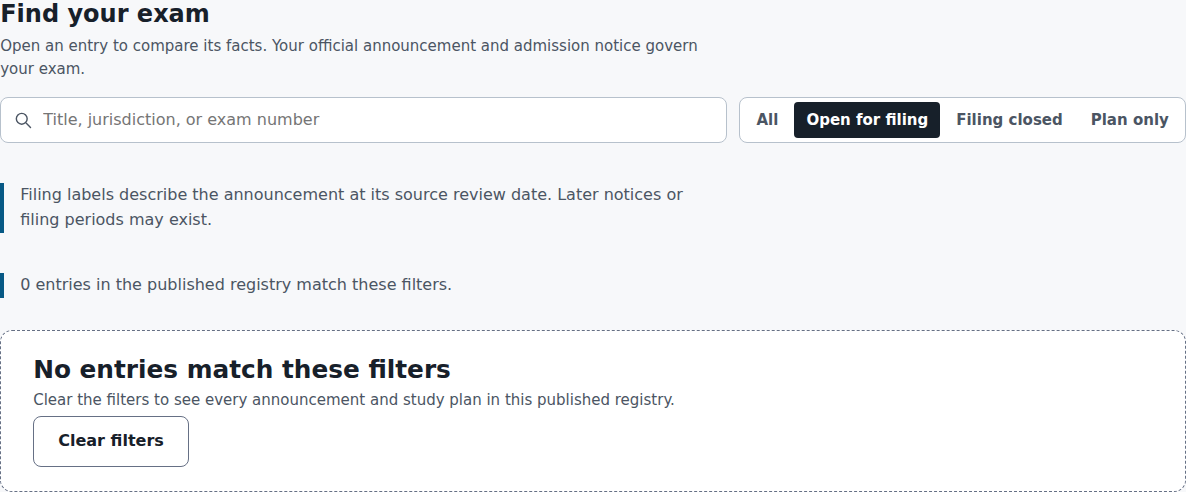
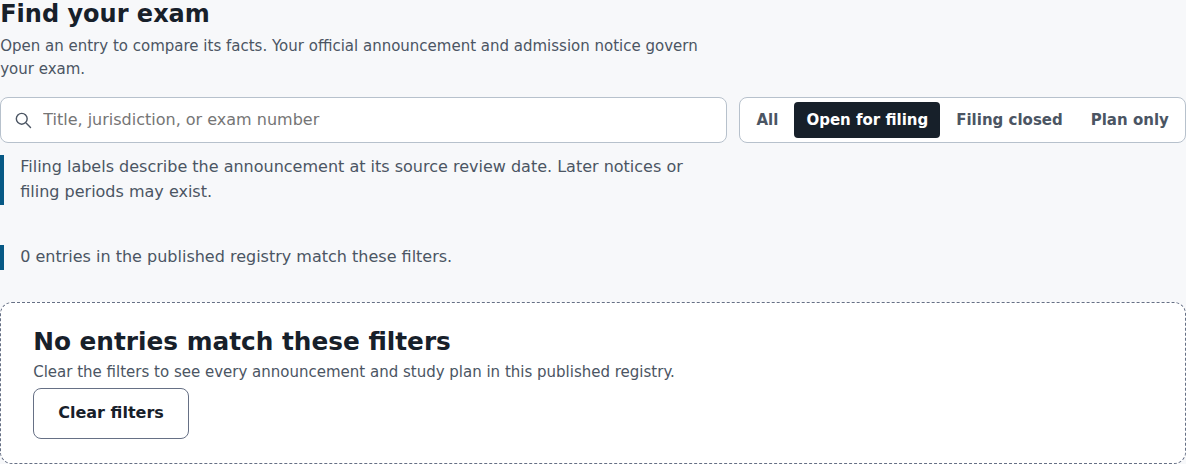
Disclose compact exam filters with keyboard and resize recovery

diff --git a/apps/site/scripts/generate-pages.tsx b/apps/site/scripts/generate-pages.tsx
@@ -1395,9 +1395,9 @@ const buildPages = ({
     <div class="home-content">
       ${renderAnnouncementMilestones(announcementFacts, sourceLineById, sourceById, "exams-cycle")}
       <section class="home-section" id="exams-board" data-exam-browser aria-labelledby="exam-board-heading"><div class="section-header"><h2 id="exam-board-heading">Find your exam</h2><p>Open an entry to compare its facts. Your official announcement and admission notice govern your exam.</p></div>
-        <div class="exam-search-controls"><div class="search-field" data-exam-search-field hidden><label class="sr-only" for="exam-search">Search announcements and study plans</label>${navIcon("search")}<input id="exam-search" type="search" data-exam-search placeholder="Title, jurisdiction, or exam number" autocomplete="off"></div>
+        <details class="exam-filter-disclosure" data-exam-filter-disclosure open hidden><summary>Search and filter</summary><div class="exam-search-controls"><div class="search-field" data-exam-search-field hidden><label class="sr-only" for="exam-search">Search announcements and study plans</label>${navIcon("search")}<input id="exam-search" type="search" data-exam-search placeholder="Title, jurisdiction, or exam number" autocomplete="off"></div>
         <div class="filter-group" role="group" aria-label="Filing status at source review" data-exam-status-filters hidden>${[["all", "All"], ["open", "Open for filing"], ["closed", "Filing closed"], ["plan", "Plan only"]].map(([value, label]) => `<button type="button" data-exam-status-filter="${value}" aria-pressed="${value === "all"}">${label}</button>`).join("")}</div></div>
-        <p class="source-note">Filing labels describe the announcement at its source review date. Later notices or filing periods may exist.</p>
+        <p class="source-note">Filing labels describe the announcement at its source review date. Later notices or filing periods may exist.</p></details>
         <p class="source-note" data-exam-count role="status">${examRecords.length} entries in the published registry.</p>
         <div class="record-board"><ul class="record-list" aria-label="Available profiles">${examRecords.map((record) => `<li data-exam-row data-exam-status="${record.identity === null ? "plan" : record.filingReview?.state ?? "unknown"}" data-exam-search-text="${escapeHtml(`${record.title} ${record.kind} ${record.profile.jurisdiction} ${record.identity?.examNumber ?? ""}`.toLowerCase())}"><a class="record-item" data-exam-choice="${record.id}" href="#${record.id}"><strong>${escapeHtml(record.title)}</strong><span class="record-kind">${escapeHtml(record.kind)}</span><span class="record-when">${escapeHtml(record.profile.jurisdiction)}</span><span class="status-chip ${record.filingReview?.state === "closed" ? "status-chip-warning" : "status-chip-neutral"}">${record.identity === null ? "Plan only" : record.filingReview?.state === "closed" ? "Filing closed" : record.filingReview?.state === "open" ? "Open for filing" : "Status unverified"}</span>${record.filingReview === undefined ? "" : `<span class="record-when">Reviewed ${escapeHtml(publicDate(record.filingReview.reviewedOn))}</span>`}</a><div class="exam-card-coverage"><details class="exam-card-subjects"><summary>${record.identity === null ? "Subjects in the statewide guide" : "On this test: three subject areas"}</summary><ol>${subjectAreas.map(area => `<li>${escapeHtml(area)}</li>`).join("")}</ol><p>${record.identity === null ? "Your own announcement controls which subjects apply." : escapeHtml(record.profile.testPlanCompatibility.detail)}</p></details><a class="button button-primary" href="/practice/#covers">See what practice covers</a></div></li>`).join("")}</ul>
           <div class="record-detail-stack"><section class="record-detail" data-exam-prompt hidden><h3>Start with the title on your announcement</h3><p>Choose an entry to read its facts and source support. Reading an entry does not change your study settings.</p></section>${examRecords.map((record) => `<article class="record-detail" id="${record.id}" data-exam-panel tabindex="-1" aria-labelledby="${record.id}-heading"><div class="record-detail-header"><div><p class="record-kind">${escapeHtml(record.kind)}</p><h3 id="${record.id}-heading">${escapeHtml(record.title)}</h3><p>${escapeHtml(record.profile.audience)}</p></div><div class="record-detail-actions"><a class="button button-primary" href="/practice/#covers">See what practice covers</a><a class="button button-secondary" href="${record.profile.canonicalPath}">Read the full profile</a></div></div>

diff --git a/apps/site/browser-tests/design-handoff.pw.ts b/apps/site/browser-tests/design-handoff.pw.ts
@@ -128,6 +128,7 @@ test("atlas family controls filter the released tools and restore the selected f
 test("exam search, record selection, and detail tabs use the published records", async ({ page }) => {
   await page.setViewportSize({ height: 720, width: 320 })
   await page.goto("/exams/")
+  await page.getByText("Search and filter", { exact: true }).click()
   const search = page.getByRole("searchbox", { name: "Search announcements and study plans" })
   await expect(search).toBeVisible()
   const rows = page.locator("[data-exam-row]")
@@ -270,6 +271,7 @@ test("exam controls align on desktop and compact records omit the empty selectio
   for (const width of [1248, 384]) {
     await page.setViewportSize({ width, height: 900 })
     await page.goto("/exams/")
+    if (width === 384) await page.getByText("Search and filter", { exact: true }).click()
     const search = page.getByRole("searchbox")
     const filters = page.getByRole("group", { name: "Filing status at source review" })
     await expect(search).toBeVisible()
@@ -357,3 +359,31 @@ for (const javaScriptEnabled of [true, false]) {
     } finally { await context.close() }
   })
 }
+
+test("compact exam filters disclose on demand and recover visible controls across resize", async ({ page }) => {
+  await page.setViewportSize({ width: 384, height: 900 })
+  await page.goto("/exams/")
+  const disclosure = page.locator("[data-exam-filter-disclosure]")
+  const summary = disclosure.locator("summary")
+  const search = page.getByRole("searchbox")
+  await expect(disclosure).toBeVisible()
+  await expect(search).toBeHidden()
+  await summary.focus()
+  await page.keyboard.press("Enter")
+  await expect(search).toBeVisible()
+  await search.fill("no such announcement")
+  await summary.click()
+  await expect(search).toBeHidden()
+  await page.getByRole("button", { name: "Clear filters", exact: true }).click()
+  await expect(search).toBeFocused()
+  await expect(page.locator("[data-exam-row]:visible")).toHaveCount(3)
+  await summary.click()
+  await page.setViewportSize({ width: 1248, height: 900 })
+  await expect(search).toBeVisible()
+  await expect(summary).toBeHidden()
+  await page.setViewportSize({ width: 384, height: 900 })
+  await expect(search).toBeVisible()
+  await page.goto("/exams/?filing=plan")
+  await expect(search).toBeVisible()
+  await expect(page.locator("[data-exam-row]:visible")).toHaveCount(1)
+})

diff --git a/apps/site/src/static-browser.ts b/apps/site/src/static-browser.ts
@@ -96,6 +96,7 @@ const enhanceExams = (root: HTMLElement): void => {
   const prompt = root.querySelector<HTMLElement>("[data-exam-prompt]")
   const search = root.querySelector<HTMLInputElement>("[data-exam-search]")
   const searchField = root.querySelector<HTMLElement>("[data-exam-search-field]")
+  const filterDisclosure = root.querySelector<HTMLDetailsElement>("[data-exam-filter-disclosure]")
   const count = root.querySelector<HTMLElement>("[data-exam-count]")
   const empty = root.querySelector<HTMLElement>("[data-exam-empty]")
   if (prompt === null || search === null || searchField === null || count === null || empty === null) return
@@ -178,6 +179,7 @@ const enhanceExams = (root: HTMLElement): void => {
     status = "all"
     replaceQuery("filing", null)
     filter()
+    if (filterDisclosure !== null) filterDisclosure.open = true
     search.focus()
   })
   const url = new URL(window.location.href)
@@ -187,6 +189,17 @@ const enhanceExams = (root: HTMLElement): void => {
   filter()
   if (statusGroup !== null) statusGroup.hidden = false
   searchField.hidden = false
+  if (filterDisclosure !== null) {
+    const desktop = window.matchMedia("(min-width: 48rem)")
+    filterDisclosure.open = desktop.matches || status !== "all"
+    filterDisclosure.hidden = false
+    desktop.addEventListener("change", () => {
+      if (!desktop.matches) return
+      const summaryFocused = document.activeElement === filterDisclosure.querySelector("summary")
+      filterDisclosure.open = true
+      if (summaryFocused) search.focus()
+    })
+  }
 }
 
 const atlas = document.querySelector<HTMLElement>("[data-atlas-browser]")

diff --git a/apps/site/src/design-system.css b/apps/site/src/design-system.css
@@ -1139,3 +1139,14 @@
     .exam-card-coverage .exam-card-subjects > p { padding: 0 0.875rem 0.875rem; border: 0; font-size: 0.75rem; }
   }
 }
+
+@layer overrides {
+  .exam-filter-disclosure > summary { display: none; }
+  .exam-filter-disclosure > .source-note { margin-block: 0.75rem 0; }
+  @media (max-width: 47.99rem) {
+    .exam-filter-disclosure { border: var(--border-thin) solid var(--color-border); border-radius: var(--radius-md); background: var(--color-surface); }
+    .exam-filter-disclosure > summary { display: list-item; padding: 0.625rem 0.875rem; min-block-size: 2.75rem; font-size: 0.875rem; cursor: pointer; }
+    .exam-filter-disclosure > .exam-search-controls { margin: 0 0.75rem; }
+    .exam-filter-disclosure > .source-note { margin: 0.75rem; padding: 0; border: 0; font-size: 0.75rem; }
+  }
+}

diff --git a/design-review/2026-09-07/IMPLEMENTATION-STATUS.md b/design-review/2026-09-07/IMPLEMENTATION-STATUS.md
@@ -14,7 +14,7 @@ The active task is the complete handoff in `/mnt/models/dev/nycustodianexam/IMPL
 | Hazard player | HAZARD-PLAYER-REVIEW.md: responsive workspace, header/save panel, nine real-state captures and nine regression tests | Visual/keyboard layout, integrated retained-image overlay, correction/safe groups and compact recovery captured; final cross-browser and matching-width visual audit remain |
 | Simulation player/results | SIMULATION-NAVIGATOR-REVIEW.md and SIMULATION-FLOW-REVIEW.md: navigator, player/timer and question-result captures at 1008/384; restore/focus checks; 24 three-browser regressions pass | Visual/keyboard hazard player/results now captured at both widths; no-concerns target corrected and six three-browser hazard regressions pass; final integrated audit and separate Static Assets check remain |
 | Print configuration | Ten products and effective controls; reviewed document scope | PRINT-OUTPUT-REVIEW.md: actual Letter/A4 question PDFs and searchable-text fix; preview rows/actions and warning/error panels reconciled; twelve ready/recovery captures and 27 three-browser print checks pass; fresh Letter/A4 PDFs retain searchable text; all 45 extended large-print/tool PDF pages audited and grid-fragmentation overlap fixed; current PDFs and per-page verification retained; 42 hazard worksheet/answer/text PDF pages audited with pagination fixes; large-print heading/URL sizing fixed with fresh PDF evidence; source-inclusive hazard estimates now finalize from assembled content; final other-product PDF refresh remains |
-| Exams / Settings / Offline / report | UTILITY-PAGES-REVIEW.md: first-visit desktop/compact captures, Settings action layout/Offline grouping and recovery checks | Delete preview cancellation/captures verified; returning saved-work counts and Offline installed summaries now use actual storage with empty/unavailable captures; export contents scope is disclosed; Exams header/compact cards and announcement-first ordering reconciled with six three-browser checks and refreshed overview/record captures; cycle responsive order/source disclosure reconciled with 17 generation tests and nine three-browser checks; source-bound filing classifications and combined URL-restored filters implemented with 22 unit and 12 three-browser checks; date milestones consolidated with bound-source metadata and matching compact rows; full-page audit captured; record-source consolidation, desktop filter alignment, and compact prompt removal verified with 60 browser checks and refreshed captures; sourced format section and compact spacing/footer added with three-browser source-navigation checks; compact cards now use native subject disclosures and badge-first hierarchy, verified with 24 browser checks; compact controls/footer comparison and report comparison remain; coverage action and three-browser navigation checks pass; all record/tab states captured; actual Offline active/removal/unavailable states captured |
+| Exams / Settings / Offline / report | UTILITY-PAGES-REVIEW.md: first-visit desktop/compact captures, Settings action layout/Offline grouping and recovery checks | Delete preview cancellation/captures verified; returning saved-work counts and Offline installed summaries now use actual storage with empty/unavailable captures; export contents scope is disclosed; Exams header/compact cards and announcement-first ordering reconciled with six three-browser checks and refreshed overview/record captures; cycle responsive order/source disclosure reconciled with 17 generation tests and nine three-browser checks; source-bound filing classifications and combined URL-restored filters implemented with 22 unit and 12 three-browser checks; date milestones consolidated with bound-source metadata and matching compact rows; full-page audit captured; record-source consolidation, desktop filter alignment, and compact prompt removal verified with 60 browser checks and refreshed captures; sourced format section and compact spacing/footer added with three-browser source-navigation checks; compact cards now use native subject disclosures and badge-first hierarchy, verified with 24 browser checks; compact controls use a tested disclosure, footer retention reconciled with the navigation contract, and 69 design-handoff checks pass; remaining production-copy/height differences documented; report comparison remains; coverage action and three-browser navigation checks pass; all record/tab states captured; actual Offline active/removal/unavailable states captured |
 | Final validation/publication | First-slice local commit; next slice in progress | Combined 102 core browser checks yielded 100 passes and two Offline reflow failures; scoped grid fix passes all nine targeted cross-browser checks. Remaining full-family checks, evidence index, clean local commits, reviewable publication; never merge/deploy automatically |
 
 Important discovered content difference: the original 90-question simulation metadata had 30 cleaning, 37 maintenance, 5 safety, and 18 mixed/scenario questions; pack v4 adds one illustrated maintenance item (91 total), not the prototype's 34/26/30. Preserve real classification and counts. Internal session/profile/version references remain required; global exam selection is removed.

diff --git a/design-review/2026-09-07/UTILITY-PAGES-REVIEW.md b/design-review/2026-09-07/UTILITY-PAGES-REVIEW.md
@@ -324,3 +324,36 @@ six keyboard-disclosure checks covering JavaScript on/off. The checks verify
 all three subject names, open/closed reflow, unchanged URL, no selected record,
 and hidden compact coverage controls after resizing to desktop. Captures report
 no page errors.
+
+## Compact registry controls and footer reconciliation — September 9
+
+Search and filing filters now sit in a native Search and filter disclosure.
+It starts closed on compact first visits and remains open on desktop. A valid
+non-All filing filter restored from the URL opens it on compact screens.
+Clearing an empty result reopens the controls before focusing search. Resizing
+to desktop opens the controls and transfers focus from the disappearing summary
+to search when necessary; resizing back preserves the user's open controls.
+The result count remains outside the disclosure so a filtered list is identified
+even after the controls are collapsed. Without JavaScript the inactive controls
+and their disclosure remain hidden, while the full records remain readable.
+
+This is a documented adaptation of the compact specimen, which omits search
+and filters entirely, preserving the implemented reference-browser capability
+without placing the whole filter panel ahead of the cards. The compact footer
+also remains intentionally present: product/FEATURE_SPEC.md and product/ROUTES.md
+place Sources/trust destinations in the footer. Its compact wrapped-link layout
+retains access to those destinations and the independent/unofficial identity.
+
+Refreshed 24 overview captures, adding controls-open-384.png. Visually inspected
+the open controls, collapsed registry, and full compact page. The first-visit
+page now measures 3211px (previous 3363px; compact reference 2255px). Remaining
+height differences include retained source/review qualifications, functional
+controls, footer, and production copy. No pixel-equivalence claim is made.
+
+Validation: full build/artifact verification and both typechecks pass; all 69
+design-handoff checks pass across Chromium, Firefox, and WebKit. New regression
+coverage exercises keyboard opening, collapsed-filter empty-result recovery,
+focus restoration, desktop/compact resizing, and URL-restored filing filters.
+Existing search/filter composition, record tabs, no-JavaScript source access,
+compact subject disclosures, navigation, and reflow checks remain green. The
+updated capture script reports no page errors.
